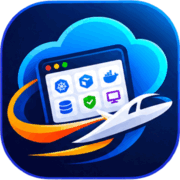
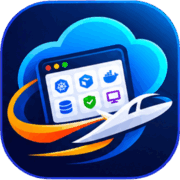
fix(signin): genuinely transparent mark, larger, and a taller two-line action
The mark's corners were still opaque white: 'alpha 0,0 floodfill' does not
operate on the alpha channel, so the corner stayed white and a white box showed
in dark mode. 'color 0,0 floodfill' after '-alpha set' with '-fill none' is the
form that works, and it leaves the white browser panel inside the mark alone
(a global -transparent white would have punched it out).

- sign-in mark 3.6rem -> 5rem
- password steps: both actions get a 3.5rem box for the two-line label

diff --git a/web/src/pages/SignIn.jsx b/web/src/pages/SignIn.jsx
@@ -382,7 +382,7 @@ export default function SignIn() {
             <SpaceBetween size="l">
               {notice}
               {passwordField}
-              <div className="signin__actions signin__actions--row">
+              <div className="signin__actions signin__actions--row signin__actions--tall">
                 <Button variant="primary" formAction="submit" loading={busy}>
                   Sign in
                 </Button>
@@ -460,7 +460,7 @@ export default function SignIn() {
                 />
               </FormField>
               {passwordField}
-              <div className="signin__actions signin__actions--row">
+              <div className="signin__actions signin__actions--row signin__actions--tall">
                 <Button variant="primary" formAction="submit" loading={busy}>
                   Sign in
                 </Button>

diff --git a/web/src/pages/signin.css b/web/src/pages/signin.css
@@ -50,9 +50,9 @@ body.awsui-dark-mode {
    way the sign-up page shows it. */
 .signin__mark {
   display: block;
-  height: 3.6rem;
+  height: 5rem;
   width: auto;
-  margin: 0 auto 1.75rem;
+  margin: 0 auto 1.25rem;
 }
 
 /* Title block: the heading carries its own bottom margin, the lead sits under it. */
@@ -187,6 +187,13 @@ body.awsui-dark-mode {
 .signin__actions--row button {
   width: auto;
   flex: 1 1 8rem;
+}
+
+/* The password steps put a two-line label beside the primary action; a taller
+   box keeps the pair the same height instead of squeezing the label. */
+.signin__actions--tall button {
+  min-height: 3.5rem;
+  padding-block: 0.4rem;
 }
 
 /* "OR" between the two actions that share a row. */

diff --git a/CHANGELOG.md b/CHANGELOG.md
@@ -57,15 +57,18 @@ the minor number is bumped by hand, patch releases are the bot's.
   256×144 / 16 kB, and the icon PNGs are stripped, palettised and compressed
   (the 512px file goes 309 kB → 81 kB).
 - **The product mark is the app icon, not a drawing.** `web/public/emuplane.png`
-  (512², corners flood-filled transparent, so the rounded square sits on any
-  background) replaces the hand-drawn `emuplane.svg`; the sign-in card, the
-  console's fallback identity and every favicon derive from it. The SVG is gone,
-  and the icon links are PNG-only.
+  (512²) replaces the hand-drawn `emuplane.svg`; the sign-in card, the console's
+  fallback identity and every favicon derive from it. The SVG is gone, and the
+  icon links are PNG-only. Its corners are cleared with a corner **flood fill**
+  (`-draw "color 0,0 floodfill"` on the alpha channel) — the earlier attempt used
+  `alpha 0,0 floodfill`, which silently leaves the white opaque, and a global
+  `-transparent white` would punch out the white browser panel inside the mark.
+  The sign-in card shows it at 5rem, so no white box appears in dark mode.
 - **The user-type step puts Next and the signup route on one row** (`Next | OR |
-  Create account`), and the password step's "Sign in to a different account" is
-  set on two lines so both actions in that row are the same height. The sign-up
-  page's alternative reads "Sign in to an existing account" on a rounded box
-  rather than a pill, because it wraps.
+  Create account`), and the password steps give both actions a 3.5rem box so the
+  two-line "Sign in to a different account" is not squeezed. The sign-up page's
+  alternative reads "Sign in to an existing account" on a rounded box rather than
+  a pill, because it wraps.
 - **The sign-in pages were unified.** Both cards now use the same frame (8px
   radius, no shadow, `#f2f3f3` page), the same input size, and an OR rule between
   the primary action and the alternative. On `/login` the signup route is one box
